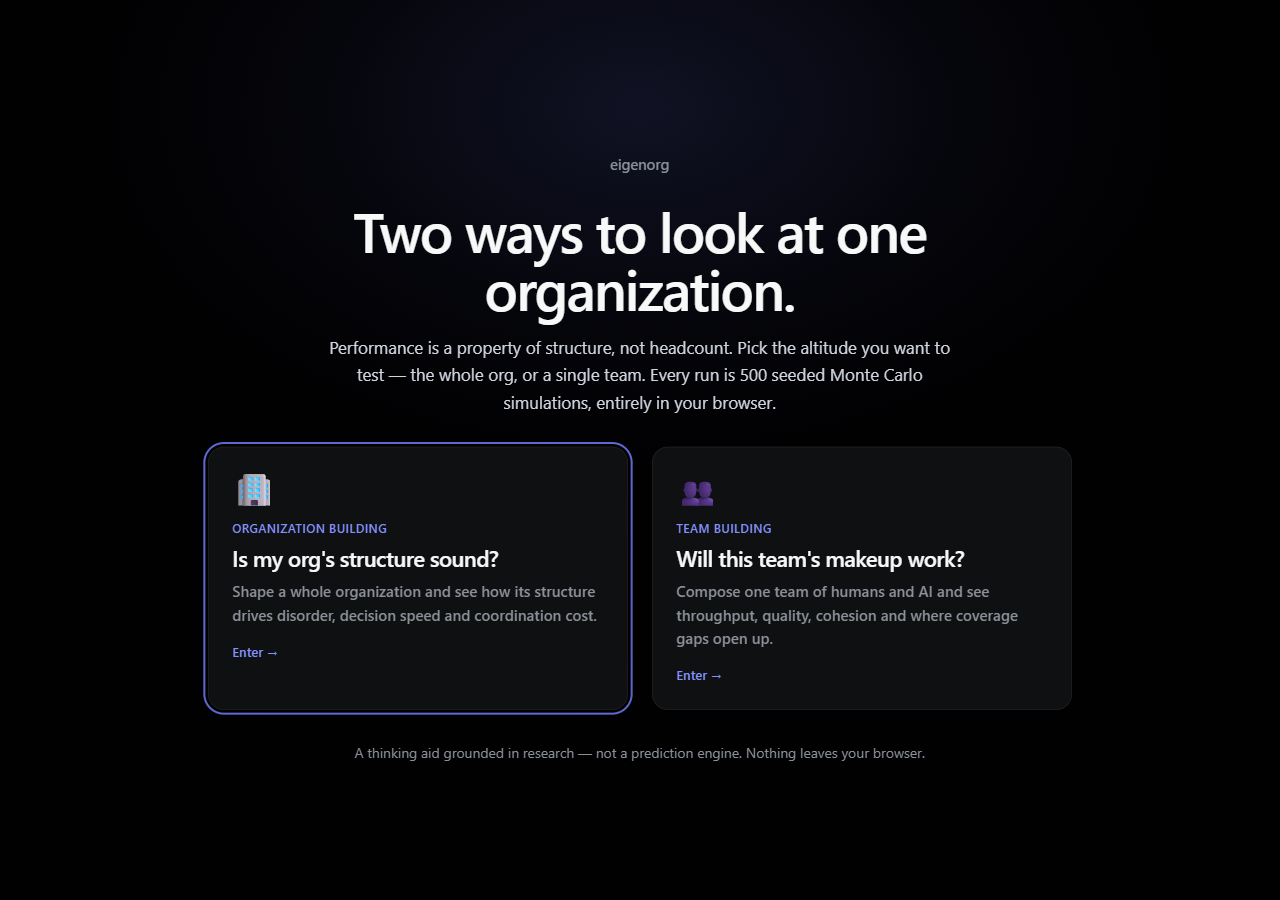
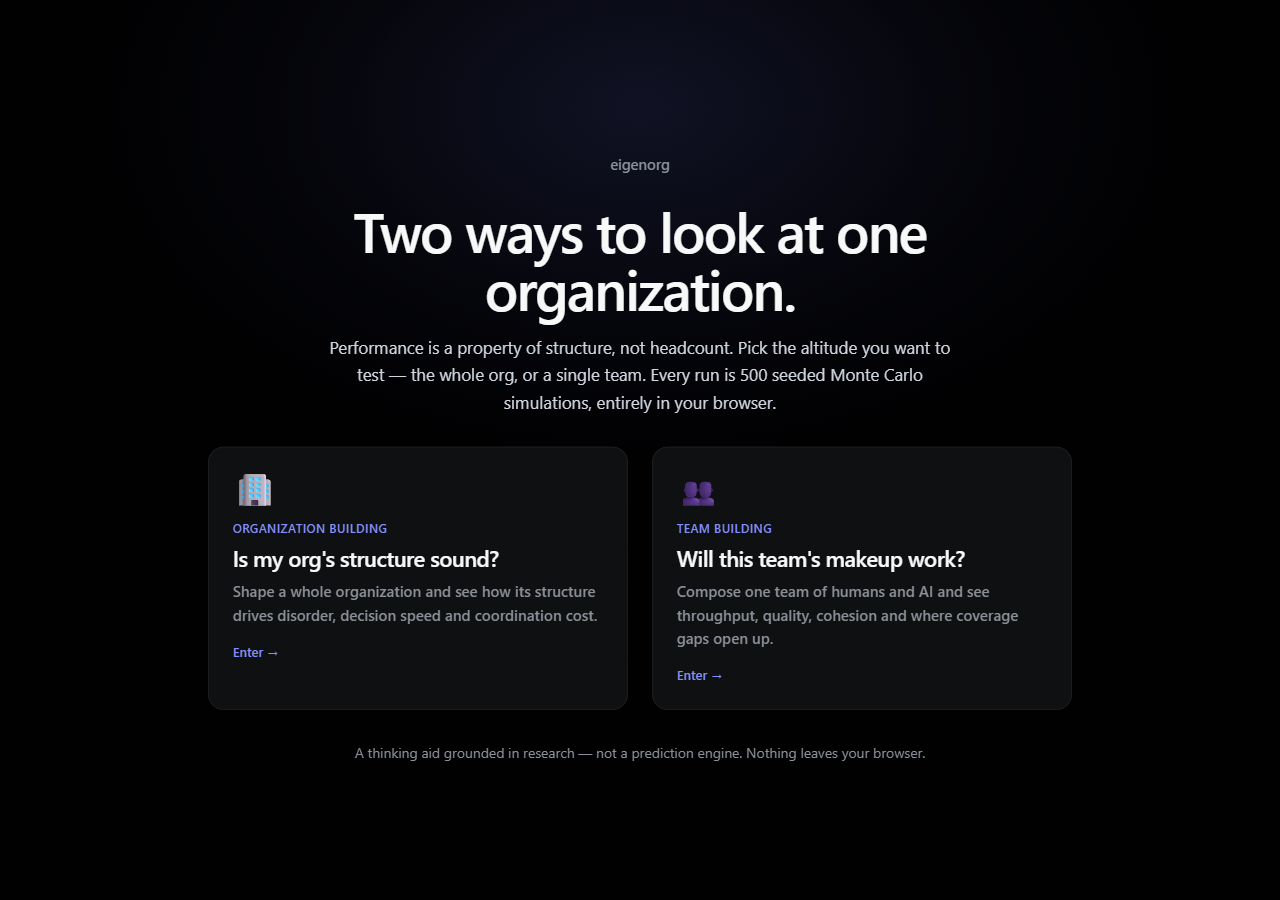
fix(eigenorg): phase 10a — C2 close the Start-over status race + refresh artifacts
Start over during a run was leaving a stray 'run cancelled' (and then a queued
'running…' progress tick) as the final status instead of the clean-slate
'ready…'. Two guards: (1) resetToDefault sets state.startingOver while it cancels,
and runAll's catch suppresses the 'run cancelled' status in that case (cleared in
finally); (2) onProgress ignores ticks once state.planCancelled is set, so a
queued progress message can't stomp the post-cancel status or bump the bar.
Verified in Playwright: mid-run Start over -> status 'ready…', progress 0, no
paint. Refreshed the perf artifact (re-measured: single sim ~0.52s, walkthrough
4.9s) and the 1280 landing screenshot (now shows the M2 cold-load state — no
focus ring on the first door).

diff --git a/www/js/main.js b/www/js/main.js
@@ -119,6 +119,10 @@ const state = {
   // there is nothing to be "out of date", so editing a control must NOT show the
   // stale badge or dim the (empty) charts. Reset by Start over.
   hasRun: false,
+  // Set while a Start-over cancel is unwinding an in-flight run (P10a M4/C2): it
+  // suppresses the async "run cancelled" status so the clean-slate "ready" line
+  // resetToDefault set is not stomped. Cleared in runAll's finally.
+  startingOver: false,
 };
 
 // Probe hook for the scripted acceptance measurements (Playwright): exposes
@@ -211,6 +215,10 @@ async function runAll() {
 
   /** @param {number} runIndex @returns {(p: { completedCount: number, totalIterations: number }) => void} */
   const onProgress = (runIndex) => ({ completedCount }) => {
+    // A cancel (Run/Cancel toggle or Start over) may leave in-flight progress
+    // messages queued; ignore them so a stray tick never stomps the post-cancel
+    // status (e.g. the Start-over "ready" line) or bumps the progress bar (M4/C2).
+    if (state.planCancelled) return;
     progressBar.value = runIndex * iterations + completedCount;
     setStatus(statusEl, `running… ${progressBar.value}/${totalWork} iterations (${totalRuns} runs)`, '');
   };
@@ -262,13 +270,16 @@ async function runAll() {
     }
   } catch (err) {
     if (/** @type {any} */ (err).cancelled) {
-      setStatus(statusEl, 'run cancelled', '');
+      // A Start-over cancel already set the clean-slate "ready" status
+      // (resetToDefault) — don't stomp it with "run cancelled" (M4/C2).
+      if (!state.startingOver) setStatus(statusEl, 'run cancelled', '');
     } else {
       setStatus(statusEl, `run failed: ${err instanceof Error ? err.message : String(err)}`, 'error');
     }
   } finally {
     setRunButtons(false);
     progressBar.value = 0;
+    state.startingOver = false;
     // A preset picked mid-run scheduled an auto-rerun (decision 6). Now that the
     // cancelled plan has fully unwound and the client is idle, run the picked
     // preset. queueMicrotask defers past this finally so runAll re-enters clean.
@@ -704,6 +715,7 @@ function resetToDefault() {
   if (client.busy) {
     state.pendingRerun = false;
     state.planCancelled = true;
+    state.startingOver = true; // suppress the async "run cancelled" status (M4/C2)
     client.cancel();
   }
   state.generation += 1;